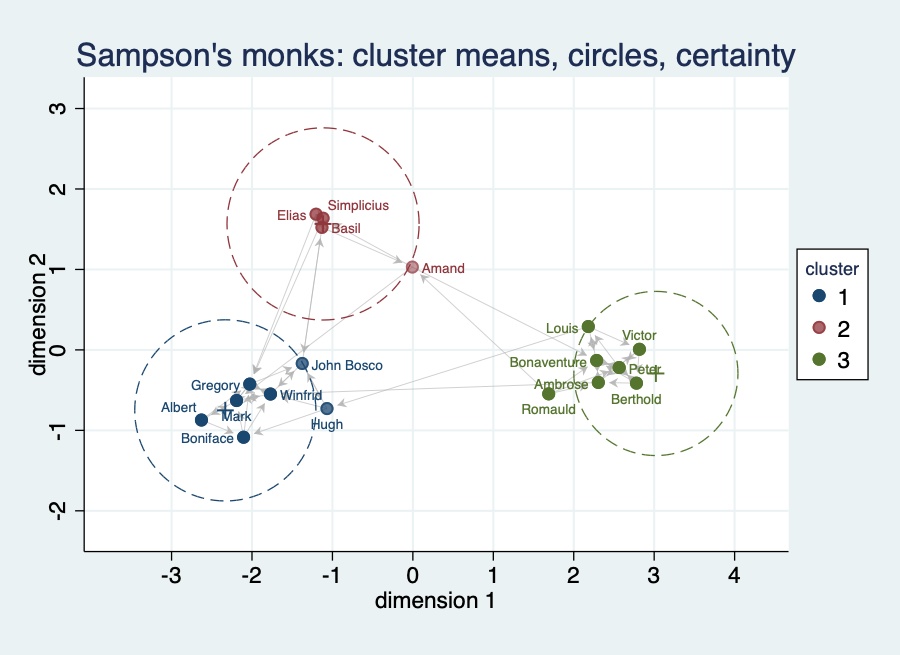
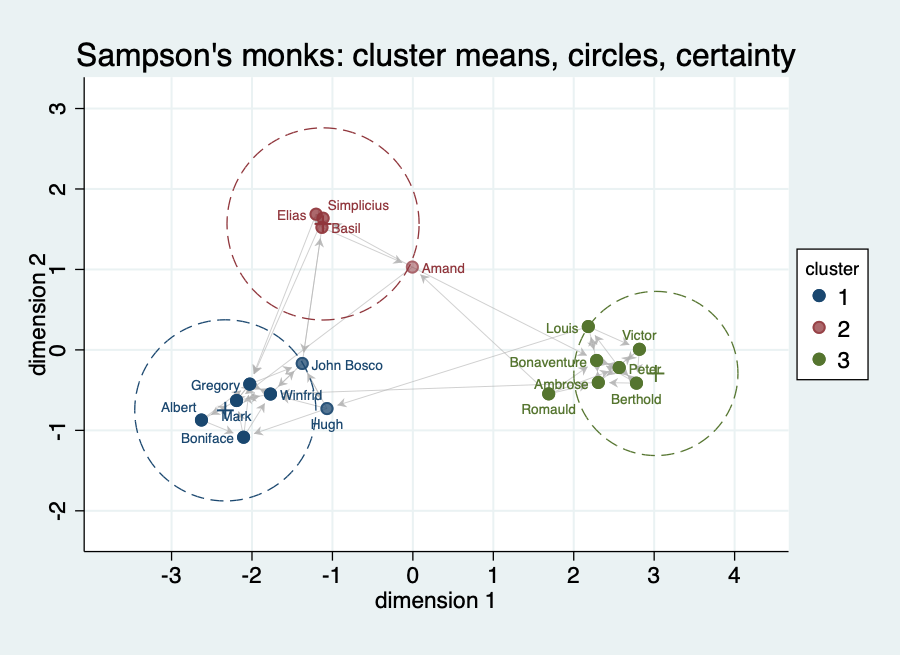
Website: nwlsm and nwsbm tutorials rerun with the new plot options (black titles, faction map with value-labelled legend and gray version, blocklabels on the karate matrix and membership plot); all PNGs and logs regenerated

Changed region(s): [[0.0622, 0.0611, 0.9022, 0.1221], [0.9022, 0.3969, 0.9644, 0.4275]]

diff --git a/website/nwsbm/tutorial-1-first-sbm/index.md b/website/nwsbm/tutorial-1-first-sbm/index.md
@@ -98,15 +98,15 @@ core and a periphery and not two groups of friends: it is a statement about the 
 
 ## Looking at the blocks
 
-`nwsbmplot` draws pictures of the last fit (the block graph follows below, after the fit with three blocks). Every plot can be written to a file with `export()` (the format follows the extension: `.png`, `.pdf`, `.eps`); the pictures on this page were made that way.
+`nwsbmplot` draws pictures of the last fit (the block graph follows below, after the fit with three blocks). Every plot can be written to a file with `export()` (the format follows the extension: `.png`, `.pdf`, `.eps`); the pictures on this page were made that way. `title("")` draws a graph without a title, and `blocklabels()` replaces the block numbers by names of your own, here the roles we found above.
 
 ```stata
-. nwsbmplot, type(matrix) shade export(nwsbm1_matrix.png)
+. nwsbmplot, type(matrix) shade blocklabels(periphery core) export(nwsbm1_matrix.png)
 ```
 
 ![Blocked adjacency matrix of the karate club, two blocks](nwsbm1_matrix.png)
 
-The blocked adjacency matrix draws every tie as a black square, with the members ordered by their block: the 29 members of block 1 first (top rows, left columns), the 5 members of block 2 last, and thin lines between the blocks. The option `shade` fills each block rectangle with a grey that follows the connectivity of that pair of blocks (four levels, relative to the largest entry of the connectivity matrix): the square of block 1 with block 1 (top left) is the lightest, the strips of block 2 with block 1 are mid grey and the small square of block 2 with block 2 (bottom right) is the darkest. The top-left square is mostly empty, with ties scattered here and there. The rows and columns of block 2 (the bottom strip and the right strip) are
+The blocked adjacency matrix draws every tie as a black square, with the members ordered by their block; the axes carry the names we gave with `blocklabels()` (periphery for block 1, core for block 2). The 29 members of block 1 come first (top rows, left columns), the 5 members of block 2 last, and thin lines between the blocks. The option `shade` fills each block rectangle with a grey that follows the connectivity of that pair of blocks (four levels, relative to the largest entry of the connectivity matrix): the square of block 1 with block 1 (top left) is the lightest, the strips of block 2 with block 1 are mid grey and the small square of block 2 with block 2 (bottom right) is the darkest. The top-left square is mostly empty, with ties scattered here and there. The rows and columns of block 2 (the bottom strip and the right strip) are
 crowded with squares, and so is the small square where block 2 meets block 2 (bottom right). This is the pattern of the connectivity matrix above: a few ties inside the large block, many to and within the small one.
 
 ```stata
@@ -118,12 +118,12 @@ crowded with squares, and so is the small square where block 2 meets block 2 (bo
 The ICL curve plots the ICL column of the table: it climbs steeply from one block (-229.4) to two blocks (-206.1), where the diamond marks the selected number, and falls again for three (-216.6), four (-218.3) and five blocks (-230.0). A curve with a clear peak, as here, is a more comfortable basis for the choice than a flat one.
 
 ```stata
-. nwsbmplot, type(membership) export(nwsbm1_membership.png)
+. nwsbmplot, type(membership) blocklabels(periphery core) title("") export(nwsbm1_membership.png)
 ```
 
 ![Membership probabilities of the karate club](nwsbm1_membership.png)
 
-The membership plot shows, for every member, the posterior probability of each block as a stacked bar (blue for block 1, red for block 2), the members ordered by block and, within a block, by decreasing certainty. Nearly all bars are of one colour: the 29 members of block 1 are almost certainly in it, and the 5 of block 2 are as well. Only the last two bars on the right carry a thin sliver of the other colour, so the memberships are sharp and the hard assignment in `block` loses little.
+The membership plot shows, for every member, the posterior probability of each block as a stacked bar (blue for the periphery, block 1, red for the core, block 2; the legend carries the names from `blocklabels()`, and `nolegend` would remove it), the members ordered by block and, within a block, by decreasing certainty. Nearly all bars are of one colour: the 29 members of block 1 are almost certainly in it, and the 5 of block 2 are as well. Only the last two bars on the right carry a thin sliver of the other colour, so the memberships are sharp and the hard assignment in `block` loses little.
 
 ## Blocks are not factions
 

diff --git a/website/nwlsm/tutorial-2-bic-clusters/index.md b/website/nwlsm/tutorial-2-bic-clusters/index.md
@@ -107,7 +107,7 @@ The BIC tells us that three clusters describe the positions best. It does not te
 To see the clusters, draw the monks in the latent space with `nwlsmplot`; the option `clusters` colours each monk by cluster and `label()` names them:
 
 ```stata
-. nwlsmplot, clusters label(_nwnode) title("Sampson's monks in the latent space")
+. nwlsmplot, clusters label(_nwnode) title("Sampson's monks in the latent space", color(black))
 . graph export "monks_clusters.png", width(900) replace
 ```
 
@@ -117,10 +117,32 @@ The three groups lie apart: seven monks in the lower left, seven on the right an
 
 The network is directed, so the ties are drawn as arrows from the sender to the receiver; this is the default for a directed network, and `noarrows` draws plain lines instead.
 
+To compare with the factions directly, colour the monks by the faction instead of by cluster. `color()` takes a numeric variable, so we first turn the string `faction` into one with value labels (`encode`); the legend then shows the names of the factions, and its title is the variable label:
+
+```stata
+. encode faction, generate(fac)
+. label variable fac "faction"
+. nwlsmplot, color(fac) label(_nwnode) title("Sampson's monks by faction", color(black)) export(monks_factions.png, width(900))
+```
+
+![Sampson's monks in the latent space, coloured by faction](monks_factions.png)
+
+The picture is the same map as before with the faction names in the legend: the Turks lie in the lower left, the Loyal monks on the right and the four Outcasts at the top, one of them, Amand, set apart from the other three. The colours are the same groups as the three clusters; only the labels differ. (A title you write yourself is drawn in the colour of the graph scheme, which is why the examples add `color(black)`; the default title and the axis titles are black already.)
+
+For a black-and-white print, `colors(gray)` replaces the colours by gray values and gives each group its own marker (filled circles, hollow diamonds, triangles, squares), so that the groups stay apart without colour. `title("")` leaves out the title; here the caption of the figure would carry it.
+
+```stata
+. nwlsmplot, color(fac) colors(gray) label(_nwnode) title("") export(monks_factions_gray.png, width(900))
+```
+
+![Sampson's monks by faction in gray, for print](monks_factions_gray.png)
+
+The Loyal monks are filled circles, the Outcasts hollow diamonds and the Turks filled triangles.
+
 Three more options show what the clusters model estimates. `clustermeans` marks the estimated mean of every cluster, `circles` draws the variance circle of each cluster (the spherical normal distribution of the positions), and `certainty` gives each monk an opacity by the largest posterior membership probability, so that monks who are not clearly assigned look pale. `export()` saves the graph in the same call; the extension sets the format.
 
 ```stata
-. nwlsmplot, clusters clustermeans circles certainty label(_nwnode) title("Sampson's monks: cluster means, circles, certainty") export(monks_circles.png, width(900))
+. nwlsmplot, clusters clustermeans circles certainty label(_nwnode) title("Sampson's monks: cluster means, circles, certainty", color(black)) export(monks_circles.png, width(900))
 ```
 
 ![Sampson's monks with the cluster circles and the certainty of the membership](monks_circles.png)

diff --git a/website/nwlsm/tutorial-1-first-lsm/index.md b/website/nwlsm/tutorial-1-first-lsm/index.md
@@ -109,7 +109,7 @@ translation, so only the distances between actors mean anything, never the axes.
 A table of coordinates is hard to read. `nwlsmplot` draws the same positions as a map, with the ties of the network as light lines:
 
 ```stata
-. nwlsmplot, title("The karate club in the latent space")
+. nwlsmplot, title("The karate club in the latent space", color(black))
 . graph export "karate_positions.png", width(900) replace
 ```
 
@@ -120,7 +120,7 @@ Actors that are tied sit close together, and actors without ties in common lie f
 The map shows one point per actor, but each position is an estimate. The option `draws(#)` adds the uncertainty: it draws that many of the kept posterior draws of all positions, aligned to the minimum Kullback-Leibler positions, as small faint dots in the colour of the actors under the map:
 
 ```stata
-. nwlsmplot, draws(100) title("The karate club with 100 posterior draws of the positions")
+. nwlsmplot, draws(100) title("The karate club with 100 posterior draws of the positions", color(black))
 . graph export "karate_draws.png", width(900) replace
 ```
 
